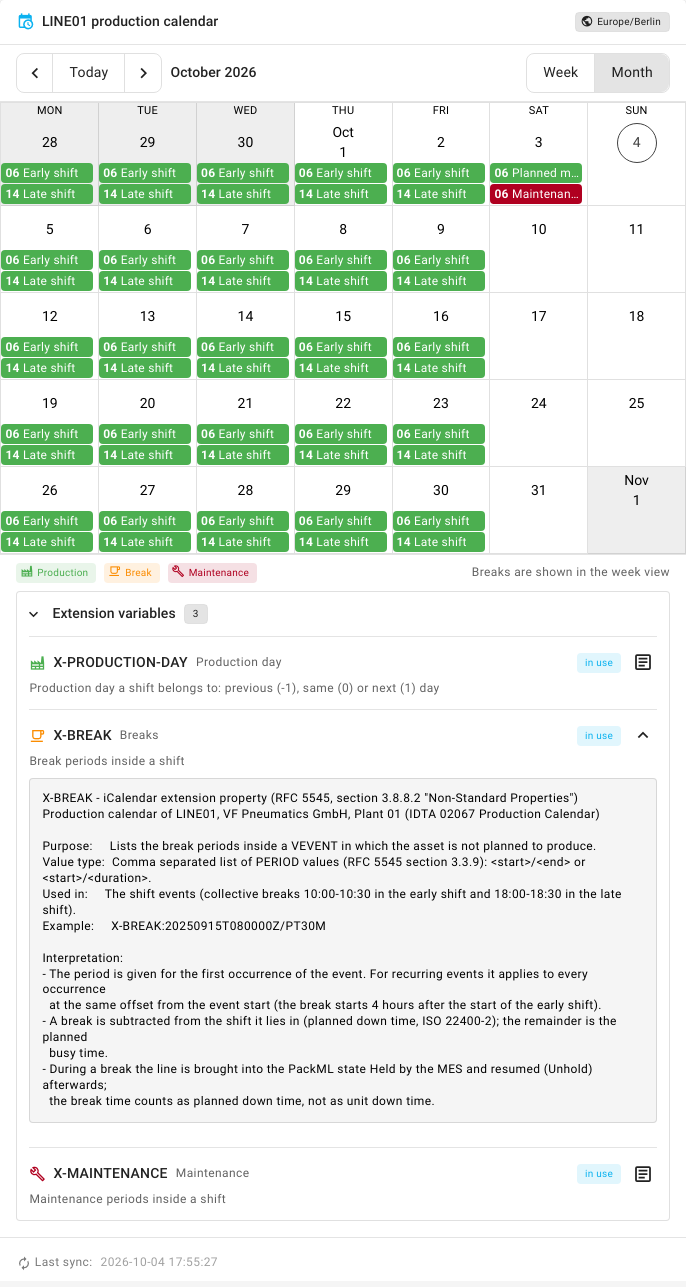
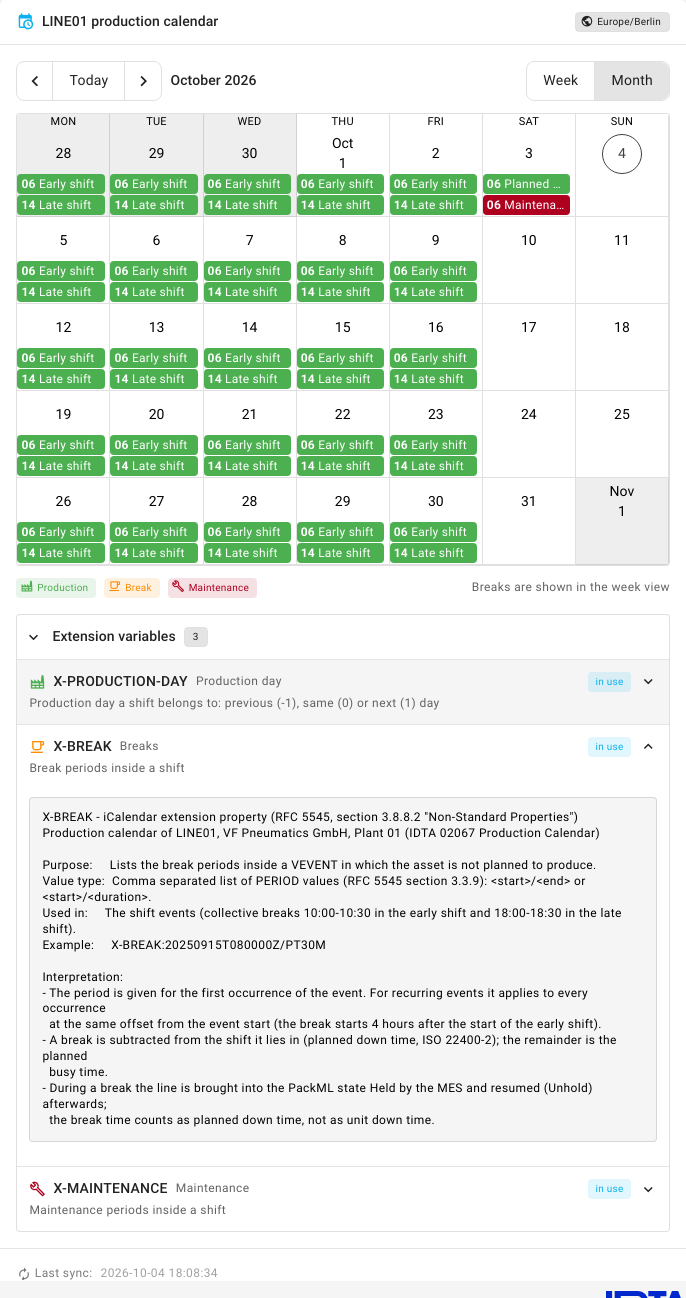
docs: update Production Calendar screenshots

diff --git a/docs/source/content/user_documentation/basyx_components/web_ui/features/plugins/production_calendar.md b/docs/source/content/user_documentation/basyx_components/web_ui/features/plugins/production_calendar.md
@@ -32,7 +32,7 @@ Production Calendar Plugin in the week view
 - **Recurring events**: Recurrence rules (`RRULE`, for example *every weekday* or *first Saturday of the month*), exception dates (`EXDATE`, for example public holidays), single changed occurrences (`RECURRENCE-ID`), `RDATE`, `DURATION` and all-day events are supported
 - **Time zones**: Events with a `TZID` (and the embedded `VTIMEZONE`), in UTC or without a time zone (floating) are displayed correctly, also across the change to and from daylight saving time
 - **Event details**: Select an event to see its name, time, production day, description, location, categories and `X-` properties
-- **Extension variables**: The `X-` properties that are defined in the Submodel (`X-PRODUCTION-DAY`, `X-BREAK`, `X-MAINTENANCE`) are listed in a collapsible section with their role and a *in use* badge if the calendar uses them. The specification text of each variable can be opened
+- **Extension variables**: The `X-` properties that are defined in the Submodel (`X-PRODUCTION-DAY`, `X-BREAK`, `X-MAINTENANCE`) are listed in a collapsible section with their role and a *in use* badge if the calendar uses them. Select a variable to open its specification text
 
 ```{figure} ./images/production_calendar_month.png
 ---
